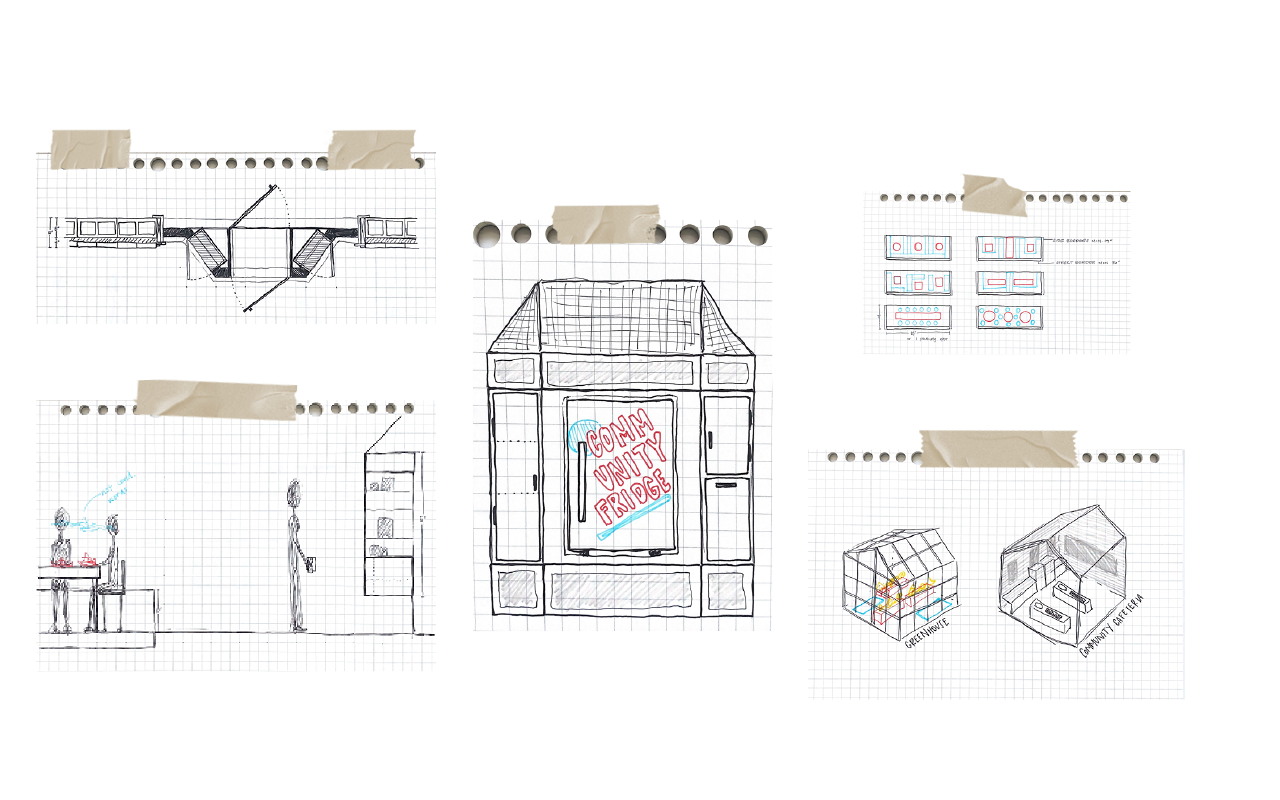
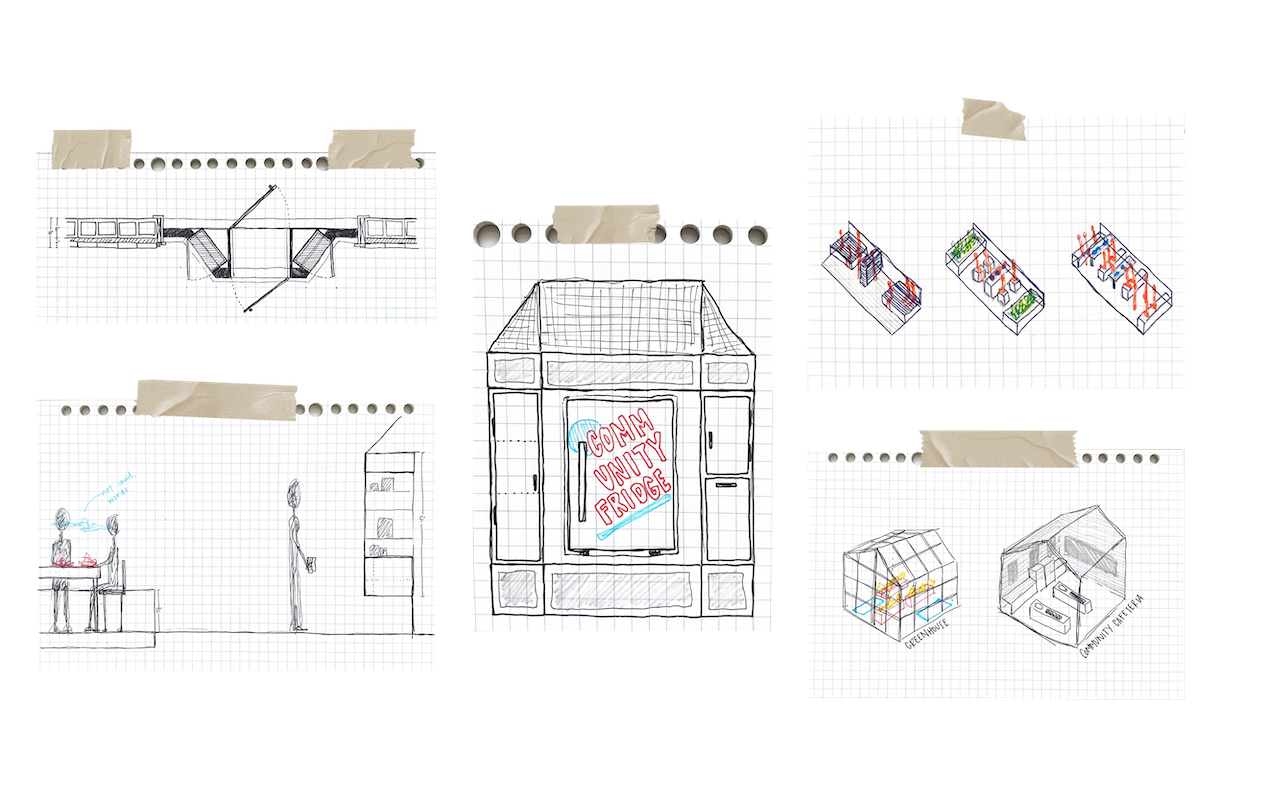
Final Review

diff --git a/01-projects/Katerie/index.html b/01-projects/Katerie/index.html
@@ -6,7 +6,7 @@
 		</head>
 		<style>
 			body{
-				background-image: url("images/Background-01.png");
+				background-image: url("images/Background.png");
 			}
 			h1{
 				color: white;
@@ -18,6 +18,16 @@
 				margin: 30px;
 				text-align: right;
 			}
+			li{
+				color: white;
+				font-family: Futura;
+				font-style: normal;
+				font-weight: bold;
+				font-size: 20px;
+				line-height: 20px;
+				margin: 10px;
+			}
+			li a:hover {color:rgba(0,0,0);}
 			h2{
 				color: white;
 				font-family: Futura;
@@ -64,14 +74,19 @@
 			#Concept{
 				text-align: left;
 			}
+			.active {color: white;}
 		</style>
 		<body>
+			<ul>
+	  			<li><a class="active" href="index.html">HOME</a></li>
+	  			<li><a class="active" href="digital.html">DIGITAL CONTAINER</a></li>
+			</ul>
 			<script type="application/Processing">
 				void setup() {
 					size(800,300);
 					stroke(255);
 					fill(255);
-					background(149,192,222);
+					background(182,218,236);
 				}
 				void draw() {
 					strokeWeight(4);
@@ -149,13 +164,14 @@
 				<p> Institutionalized racism effects the well-being of minority groups every day. This manifests itself in issues regarding income, housing, energy insecurity, health care, and food insecurity. When systemic barriers overlap, you are left with generational poverty. With the COVID-19 Pandemic highlighting and exacerbating these issues, it is important to recognize and tackle these problems now. In East Boston, Latinx peoples have the highest rate of food insecurity of the different races/ethnicities studied and 59% of the EBHNC study participants lived in food-insecure households. While community cannot solve these issues, promoting a foundation of mutual aid in these under-served communities can help to support mental health and strengthen the neighborly bonds that we need to survive. Mutual Aid is described as “solidarity, not charity” and allows for communities to create sustainable networks to invest in themselves. The pandemic has garnerated a robust response to food insecurity but the current systems rely on flimsy infrastructure and do not have dedicated spaces beyond parking lots and community center rooms. So how can we reinterpret these historically charity-based models to embrace the concept of mutual aid? Mutual aid networks like the Young Lords Garbage Offensive and the Black Panthers Breakfast Program, are examples of a community’s ability to stand up to lack of physical infrastructure with social infrastructure. These networks existed as programming and rarely had physical spaces dedicated to public meeting. This is the same for most of the community work done by stakeholders NUBE, Eastie Farms, Cosecha, and Empower East Boston. Spacial installations are usually fold-up tables that don’t provide stability or create meaningful infrastructure. The residents of East Boston are separated from their community infrastructure and to change this I propose reclaiming empty lots to create community land, like the precedent of Eastie Farms. This would give residents the foundation of space and ownership to then build their relationships and mutual aid network. This would happen in the Eagle Hill and Orient Heights communities as these are the most at risk. The main water front site will house the Community Cafeteria while the more scalar installations will populate the city's streets. Residents will be able to use these spaces to tend to their existing neighborly/communal interactions and build a sustainable mutual aid network.</p> 
 			</div>
 			<div id="SiteNarrative">
-				<img class="orange" src="images/maps-01.png"/>
-				<img class="orange" src="images/maps-02.png"/>
-				<img class="orange" src="images/maps-03.png"/>
+				<img class="orange" src="images/OlderDia.png"/>
+				<img class="orange" src="images/LowNoDia.png"/>
+				<img class="orange" src="images/Fam.png"/>
+				<img class="orange" src="images/AtRisk.png"/>
 				<p class="shorter"> Through my site analysis, I found that the most at risk populations, in terms of food security, overlapped heavily in Eagle Hill. These populations are the elderly, families with children under 18, and low/no income households. So naturally, I located my interventions in this neighborhood in order to bring these resources to them. As can be seen with the black circles that highlight the community centers/resources in the community, very few of them are where the people are. This of course has to do with zoning and separation of programs, but in order for a mutual aid network to succeed, it must be incorporated in living. As a society, we associate charity with pity. To need, is to be less than. This ideology is ridiculous and to change this we must start internally. Embracing a lifestyle of mutual aid is a difficult endeavor but with the right tools, it can be possible.</p>
 			</div>
 			<div id="Stakeholder">
-				<img class="mango" src="images/Stakeholders.png"/>
+				<img class="mango" src="images/Stakeholder.png"/>
 				<p class="short"> My stakeholder map highlights the important players in my project. The community centers and food-based organizations will play a large part on the main site, but the smaller installations will depend in large part, on the community and the corner stores/business owners. It is an interconnected network of many moving parts. We as designers, need to be mindful and try to understand each of these parts intimately. And rather than implement separate and unrelatable installations, propose infrastructure to bolster and support the existing economy and mutual aid relationship buds that are beginning to sprout in this new era. This diagram attempts to show the relationship between designer and community, how we must try to embed ourselves in and strengthen these relationships, so that when we leave, the framework we leave behind can continue to stand on its own.</p>
 			</div>
 			<div id="Concept">
@@ -167,16 +183,18 @@
 				<h3>Scalar Interventions</h3>
 				<img class="mango" src="images/BayWindows.png"/>
 				<img class="mango" src="images/Sketches.png"/>
-				<img class="mango" src="images/Placeholder/Slides5.png"/>
+				<img class="mango" src="images/BayPlan.png"/>
+				<img class="mango" src="images/BayElev.png"/>
+				<img class="mango" src="images/ParkletPlan.png"/>
+				<img class="mango" src="images/ParkletElev.png"/>
+				<img class="mango" src="images/Section.png"/>
 				<p class="short"> Before we get into the larger site, I wanted to introduce the building blocks of the project. A food belt of sorts, that will help to strengthen the mutual aid infrastructure of the community. Inspired by the intimate bay window that graces the facade of an abundance of buildings in the neighborhood, I am creating sites of mutual benefit within the existing framework of East Boston. With a range of scales depending on the installation site, these modular interventions are a small way of utilizing these corner stores, typically spaces of interaction and gathering, to further engage the community. Especially in an area with only one large supermarket, occasional shopping really only happens at these bodegas. So to choose these spaces for intervention is to recognize this and to give residents the ability to engage in mutual aid activity in their regular lives. Each Bay houses a community fridge, pantry space, and garbage/compost. And to further activate these spaces: the parklet! A selling point for these business owners is the parklet to provide outdoor seating and additonal community space to encourage relationships and meeting and make these corner stores an even more integral piece of infrastructure in the community.
 				<h3>Community Cafeteria</h3>
-				<img class="mango" src="images/SitePlan2.png"/>
-				<img class="mango" src="images/Site.png"/>
-				<img class="mango" src="images/Placeholder/Greenhouses.png"/>
-				<p class="short"> The project is centered by the main site, which houses the Community Cafeteria and Greenhouse. The site is rather large and will require a multi-pronged design so phases are neccessary. Life cycle analysis soon to come. driving principle of the site is that this is where mutual aid comes to thrive. The program includes a community kitchen where people can come to cook dinners together or for others who may not have the ability. There will be dedicated space for organizations, such as Project Bread or the YMCA, who aim to support the community through different programming and offerings to set up camp and offer everchanging services depending on the need. A community garden and aquaponics farm will teach the community how to grow their own food and serve as a means of getting people to gather based on a universal need, to eat. Foundationally, the site is organized based on the parklet. Not only will this simple measure allow the site to grow exponentially, it allows for the site to be activated by the different scheduling of the parklets. For example. parklets need to be off the street from November-March. The city no longer provides storage during this time and so allocating space for these units to call home in the off season gives the site a temporal element that changes with the seasons and with the needs of the people. The gray spots on the site plan are highlighting those spaces within the greenhouse and the community garden that can these units of community infrastructure. The land is currently a sort of urban wild and portions of the site will continue to be as the different elements of the design are implemented as need arises. 
+				<img class="mango" src="images/SitePlan.png"/>
+				<img class="mango" src="images/SitePlanZoom.png"/>
+				<p class="short"> The project is centered by the main site, which houses the Community Cafeteria and Greenhouse. The site is rather large and will require a multi-pronged design so phases are neccessary.The driving principle of the site is that this is where mutual aid comes to thrive. The program includes a community kitchen where people can come to cook dinners together or for others who may not have the ability. There will be dedicated space for organizations, such as Project Bread or the YMCA, who aim to support the community through different programming and offerings to set up camp and offer everchanging services depending on the need. A community garden and aquaponics farm/greenhouse will teach the community how to grow their own food and serve as a means of getting people to gather based on a universal need, to eat. Foundationally, the site is organized based on the parklet. Not only will this simple measure allow the site to grow exponentially, it allows for the site to be activated by the different scheduling of the parklets. For example. parklets need to be off the street from November-March. The city no longer provides storage during this time and so allocating space for these units to call home in the off season gives the site a temporal element that changes with the seasons and with the needs of the people. The gray spots on the site plan are highlighting those spaces within the greenhouse and the community garden that can these units of community infrastructure. The land is currently a sort of urban wild and portions of the site will continue to be as the different elements of the design are implemented as need arises. 
 				<h3>Digital Container</h3>
-				<img class="mango" src="images/Placeholder/Slides4.png"/>
-				<img class="mango" src="images/Placeholder/Slides3.png"/>
+				<img class="mango" src="images/DigitalCon.png"/>
 				<p class="short"> Main components of the digital container: the interactive, growing collage/message board and the map/schedule of the components.  
 
 				<p class="short"> Host an event on a parklet!

diff --git a/01-projects/Katerie/digital.html b/01-projects/Katerie/digital.html
@@ -1,0 +1,88 @@
+<!DOCTYPE html>
+	<html>
+		<head>
+			<title>Serving Up Community</title>
+			<script src="https://cdnjs.cloudflare.com/ajax/libs/processing.js/1.6.0/processing.min.js"></script>
+		</head>
+		<style>
+			body{
+				background-image: url("images/DigitalContainercopy.png");
+				height: 1566px;
+				width: 1280px;
+			}
+			h1{
+				color: white;
+				font-family: Futura;
+				font-style: normal;
+				font-weight: bold;
+				font-size: 80px;
+				line-height: 70px;
+				margin: 30px;
+				text-align: right;
+			}
+			li{
+				color: white;
+				font-family: Futura;
+				font-style: normal;
+				font-weight: bold;
+				font-size: 20px;
+				line-height: 20px;
+				margin: 10px;
+			}
+			h2{
+				color: white;
+				font-family: Futura;
+				font-style: normal;
+				font-weight: bold;
+				font-size: 40px;
+				line-height: 20px;
+				margin: 50px;
+				text-align: right;
+			}
+			h3{
+				color: white;
+				font-family: Futura;
+				font-style: normal;
+				font-weight: bold;
+				font-size: 40px;
+				line-height: 20px;
+				margin: 50px;
+				text-align: left;
+			}
+			p{
+				color: white;
+				font-family: Futura;
+				font-style: normal;
+				font-weight: lighter;
+				font-size: 20px;
+				margin: 50px;
+			}
+			.mango{
+				margin: 0px 0px 0px 50px;
+			}
+			
+			.active {color: white;}
+			.orange{
+				margin: 10px 50px 10px 50px;
+			}
+			.short{
+				width: 800px;
+			}
+			.shorter{
+				margin: 50px 50px 0px 500px;
+			}
+			#SiteNarrative{
+				text-align: right;
+			}
+			#Concept{
+				text-align: left;
+			}
+		</style>
+		<body>
+			<ul>
+	  			<li><a class="active" href="index.html">HOME</a></li>
+	  			<li><a class="active" href="digital.html">DIGITAL CONTAINER</a></li>
+			</ul>
+
+		</body>
+	</html>
